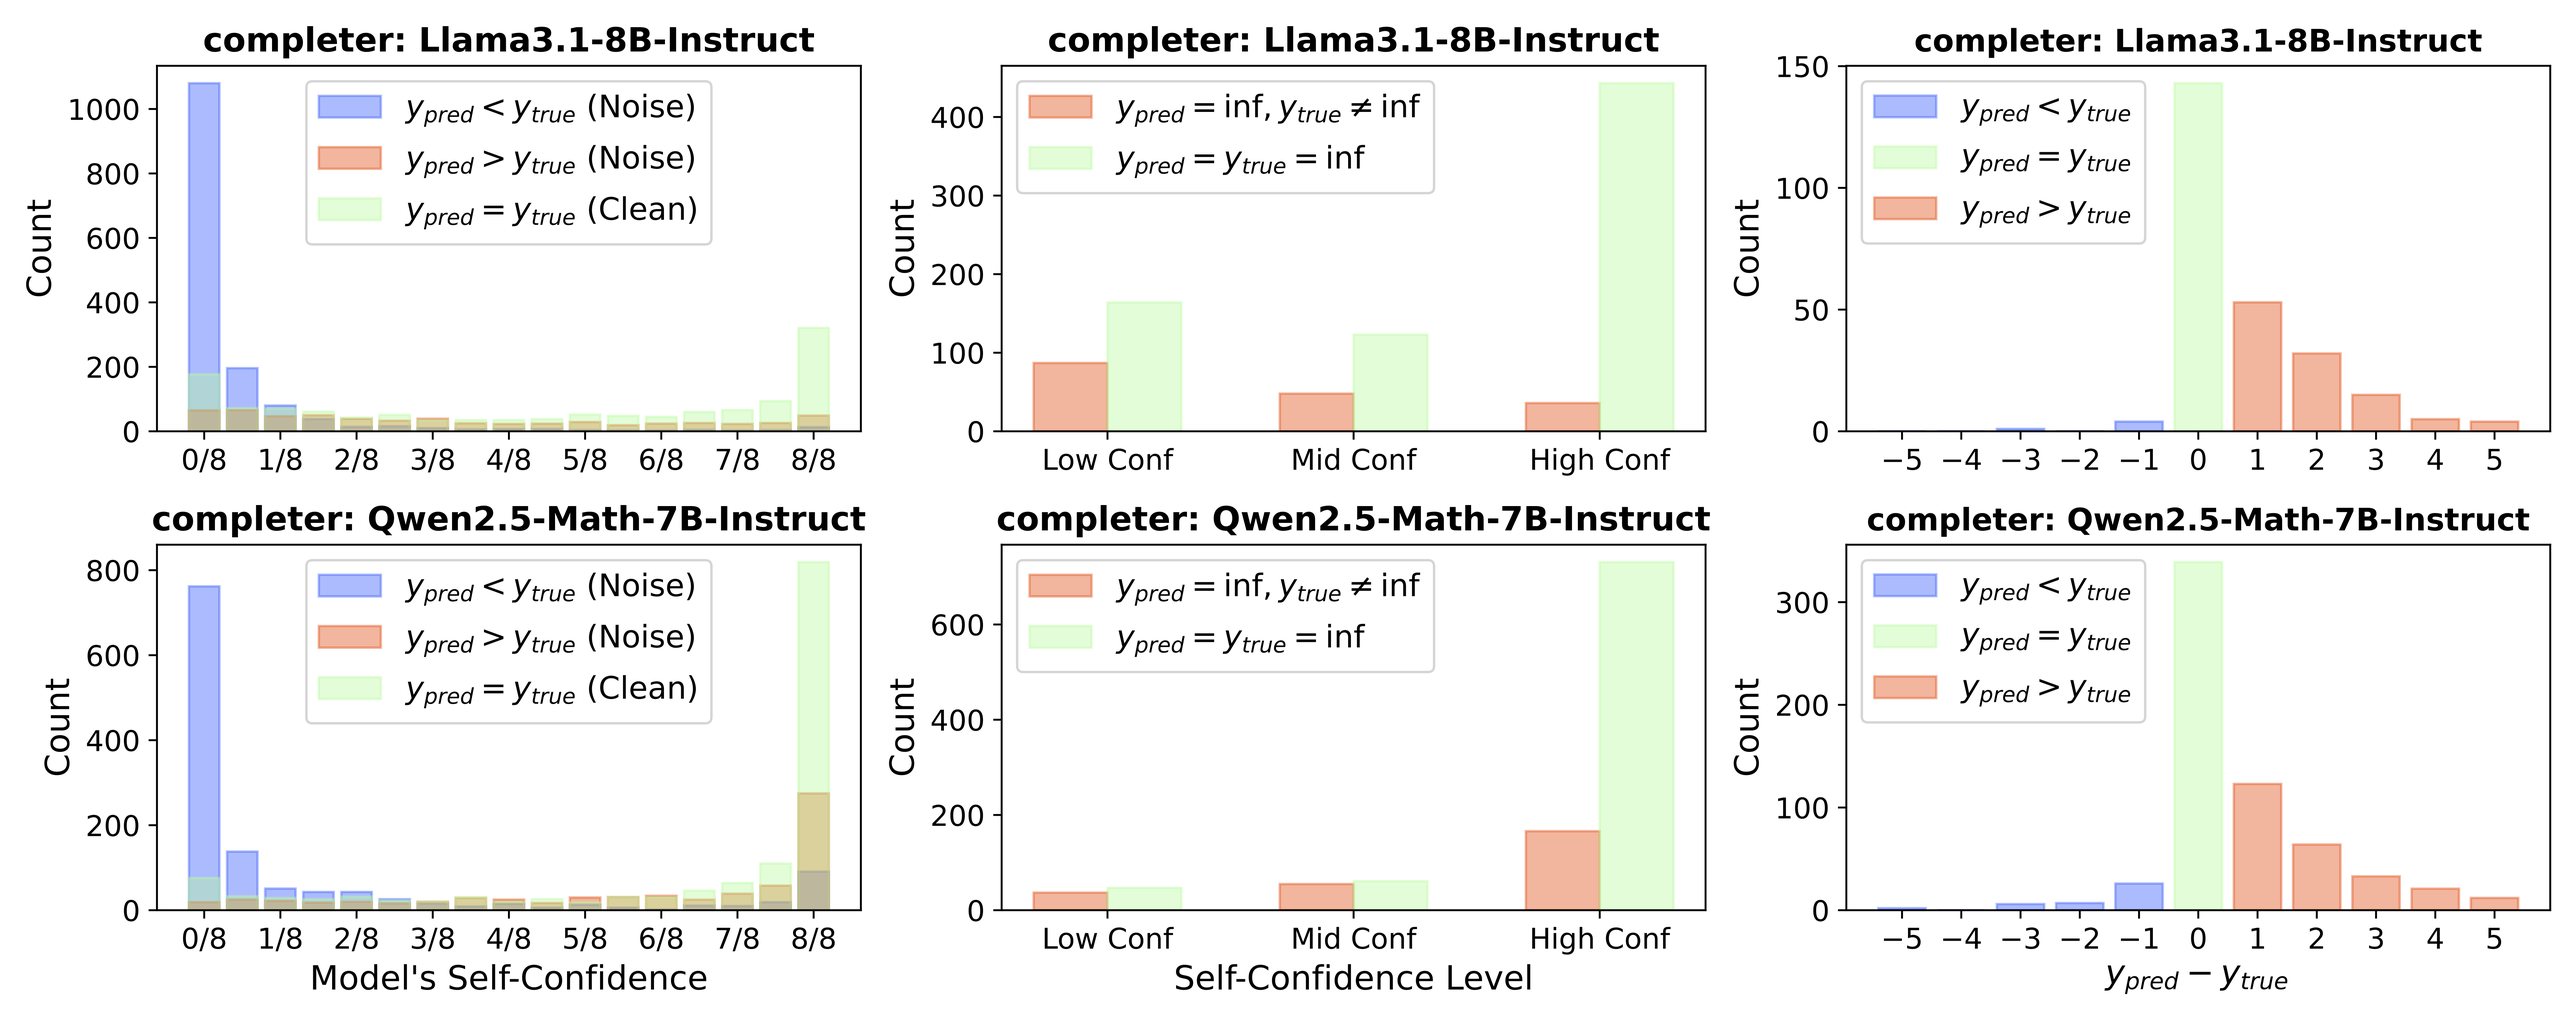
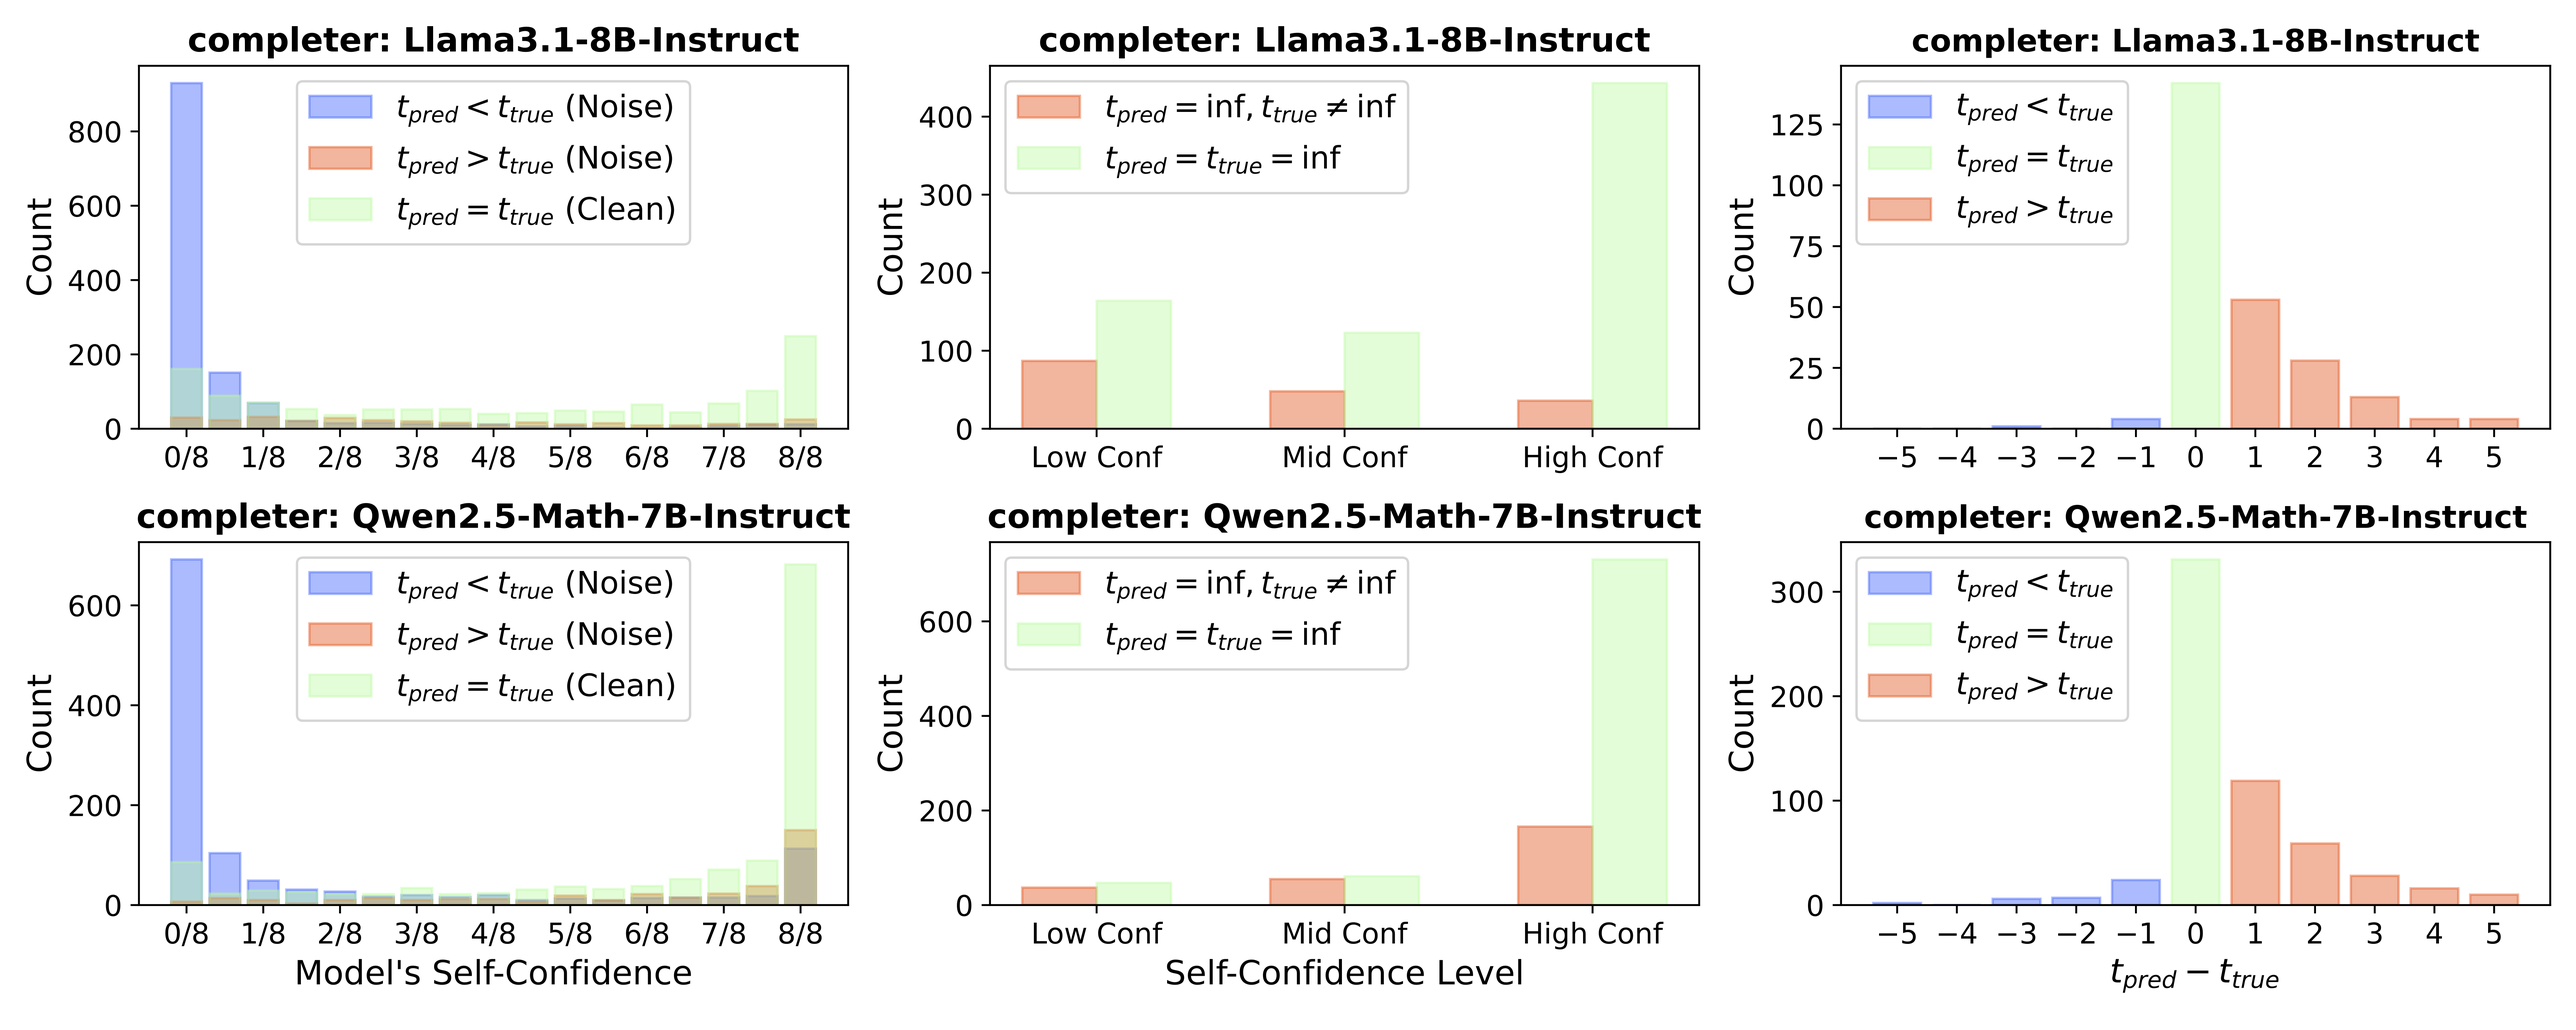
update

diff --git a/index.html b/index.html
@@ -43,6 +43,7 @@
   <script src="static/js/bulma-carousel.min.js"></script>
   <script src="static/js/bulma-slider.min.js"></script>
   <script src="static/js/index.js"></script>
+  <script src="https://cdn.jsdelivr.net/npm/mathjax@3/es5/tex-mml-chtml.js"></script>
 </head>
 <body>
 
@@ -77,39 +78,6 @@
             <span class="author-block"><b style="color:#f68946; font-weight:normal">&#x25B6 </b>Soochow University</span>
             <span class="author-block"><b style="color:#008AD7; font-weight:normal">&nbsp&nbsp&#x25B6 </b> Tencent</span>
           </div>
-
-          <!-- <div class="is-size-5 publication-authors">
-            <span class="author-block">Soochow University</span>
-          </div> -->
-
-          <!-- <div class="is-size-6 publication-authors">
-            <span class="author-block"><sup>*</sup>Equal Contribution</span>
-          </div> -->
-
-          
-        <!-- <div class="column has-text-centered">
-          <h3 class="title is-3 publication-title">Improved Baselines with Visual Instruction Fine-tuning</h3>
-          <div class="is-size-5 publication-authors">
-            <span class="author-block">
-              ,
-            </span>
-            <span class="author-block">
-              ,
-            </span>
-            <span class="author-block">
-              ,
-            </span>
-            <span class="author-block">
-              <a href="https://pages.cs.wisc.edu/~yongjaelee/" style="color:#f68946;font-weight:normal;">Yong Jae
-                Lee</a >
-            </span>
-          </div>
-
-          <div class="is-size-5 publication-authors">
-            <span class="author-block"><b style="color:#f68946; font-weight:normal">&#x25B6 </b> University of
-              Wisconsin-Madison</b></span>
-            <span class="author-block"><b style="color:#008AD7; font-weight:normal">&#x25B6 </b> Microsoft Research</span>
-          </div> -->
 
           <div class="column has-text-centered">
             <div class="publication-links">
@@ -157,41 +125,42 @@
   </div>
 </section>
 
-
-<!-- Teaser video-->
- 
 <section class="hero teaser">
   <div class="container is-max-desktop">
     <div class="hero-body">
       <h2 class="subtitle has-text-centered">
-         We propose <b>S</b>elf-Denoising Monte <b>C</b>arlo <b>An</b>notation (SCAN),<br>an efficient Process Reward Model (PRM) data synthesis and noise-tolerant learning framework.
+        We propose <b>S</b>elf-Denoising Monte <b>C</b>arlo <b>An</b>notation (SCAN),<br>an efficient Process Reward Model (PRM) data synthesis and noise-tolerant learning framework.
       </h2>
-    </div>
   </div>
 </section>
 
-<!-- End teaser video -->
-
-<!-- Paper abstract -->
-<!-- <section class="section hero is-light">
-  <div class="container is-max-desktop">
-    <div class="columns is-centered has-text-centered">
-      <div class="column is-four-fifths">
-        <h2 class="title is-3">Abstract</h2>
-        <div class="content has-text-justified">
-          <p>
-            We introduce ScaleQuest, a scalable and novel data synthesis method that utilizes "small-size" (e.g., 7B) open-source models to generate questions from scratch without the need for seed data with complex augmentation constraints.
-          </p>
+<section class="hero is-small is-light">
+  <div class="hero-body">
+    <div class="container is-max-desktop">
+      <div class="columns is-centered has-text-centered">
+        <div class="column is-six-fifths">
+          <h2 class="title is-3">Background</h2>
+        </div>
+      </div>
+      <div class="columns is-centered">
+        <div class="column is-full-width">
+          <div class="desc">
+            <li>
+            <b>Process Reward Model</b>: Process reward models (PRMs) offer fine-grained, step-level evaluations that facilitate deeper reasoning processes in large language models (LLMs), proving effective in complex tasks like mathematical reasoning. 
+            </li>
+            <li>
+            <b>Data Scaling Bottleneck</b>: The development of PRMs is constrained by the high cost and limited scalability of human annotations. Synthetic data generated via Monte Carlo (MC) estimation offers a scalable alternative, but its high noise ratio often leads to overfitting and hinders effective large-scale training.
+            </li>
+          </div>
         </div>
       </div>
     </div>
   </div>
-</section> -->
-<!-- End paper abstract -->
+</section>
 
 
 <!-- ### Preliminary Overview-->
-<section class="hero is-small is-light">
+<section class="hero is-small">
   <div class="hero-body">
     <div class="container is-max-desktop">
       <!-- Paper video. -->
@@ -206,6 +175,14 @@
             <img src="./static/images/preliminary.png">
           </div>
           <div class="desc">
+            <p><b>The above figure</b> illustrates the noise distribution of Monte Carlo Estimation, where \( t_{pred} \) denotes the annotated error location (label), and \( t_{true} \) denotes the ground-truth error location (label).</p>
+            <p><b>Here we list an important observations on noise distribution:</b></p>
+            <li>
+              <b>False Positive Noise:</b> For predicted positive samples (i.e., \( t_{pred} = \text{inf}\)), the noise positive ratio is significantly lower in high self-confidence samples (<b>left and middle columns</b>), making them more suitable for training.
+            </li>
+            <li>
+              <b>Inaccurate Negative Noise:</b> Annotator model can roughly identifies error locations but often overestimate them, i.e., \(t_{pred} > t_{true}\). The number of noisy samples decreases as the deviation increases (<b>right column</b>).
+            </li>
             <!-- <ol>
               <li>
                 <b>Question Fine-Tuning (QFT)</b>: To activate the model's question generation capability, we first perform Question Fine-Tuning (QFT), where we train the problem-solving model using a small set of problems. We train two question generators based on DeepSeekMath-7B-RL and Qwen2-Math-7B-Instruct, using 15K problems from the GSM8K and MATH training set.
@@ -229,7 +206,7 @@
 
 
 <!-- ### Method Overview-->
-<section class="hero is-small">
+<section class="hero is-small is-light">
   <div class="hero-body">
     <div class="container is-max-desktop">
       <!-- Paper video. -->
@@ -244,20 +221,29 @@
             <img src="./static/images/method.png">
           </div>
           <div class="desc">
-            <!-- <ol>
-              <li>
-                <b>Question Fine-Tuning (QFT)</b>: To activate the model's question generation capability, we first perform Question Fine-Tuning (QFT), where we train the problem-solving model using a small set of problems. We train two question generators based on DeepSeekMath-7B-RL and Qwen2-Math-7B-Instruct, using 15K problems from the GSM8K and MATH training set.
-              </li>
-              <li>
-                <b>Question Preference Optimization (QPO)</b>: We further optimize the two problem generators through preference tuning, focusing primarily on two aspects: problem solvability and difficulty.
-              </li>
-              <li>
-                <b>Question Filtering</b>: After the QFT and QPO phases, we obtained two question generators: DeepSeekMath-QGen and Qwen2-Math-QGen. However, there were still some minor issues in the generated questions, so we applied filtering methods, including language filtering, solvability filtering, and difficulty sampling.
-              </li>
-              <li>
-                <b>Response Generation & Reward Filtering</b>: We generate responses using Qwen2-Math-7B-Instruct and use the reward model score as a metric for evaluating response quality. The response with the highest reward score among the five candidates is then selected as the final response.
-              </li>
-            </ol> -->
+            <p><b>Building upon the insights</b>, we propose SCAN framework, consisting of two modules: (1) an efficient data synthesis framework to reduce substantial inference costs, and (2) robust training methods to mitigate the high noise ratio in synthetic data and enable robust learning with noisy labels.</p>
+            <li>
+              <b>Data Synthesis:</b> SCAN first estimate a confidence score of annotator model \(\pi\) on an given question \(q_i\):
+              $$
+              SC_{\pi_1}(q_i) = \frac{1}{N} \sum\limits_{j=1}^{N} \mathcal{J}(r_{i}^{(j)}, a_i),\quad \text{where } r_i \sim P_{\theta}(\cdot \mid q_i)
+              $$
+              where \(\mathcal{J}(r_{i}^{(j)}, a^i)\) evaluates the correctness of the generated response.
+              The positive samples in high self-confidence regions, contain minimal noise (<b>from the above discovery</b>). Therefore, we directly use these samples as positive training examples.
+            </li>
+            <li>
+              <b>Robust Learning:</b> The term \(SC_{\pi}(q)\) denotes the self-confidence score of the completer model \(\pi\) for question \(q\). We then train PRMs with the reweighted step label:
+              $$
+              \begin{aligned}
+                  \mathcal{L}_{\text{SCAN}}{(\theta)} &= -\mathbb{E}_{(x_{\leq t}, y_t) \sim D_{\text{final}}}[y_t\log(P_{\theta}(y_t|q, \mathbf{x}_{\leq t})) + (1 - y_t)\log(1 - P_{\theta}(y_t|q, \mathbf{x}_{\leq t}))] \\
+                  \hat{y}_{t} &= 
+                  \begin{cases}
+                  \min(c_t / SC_{\pi}(q), 1), & \text{if } t_{pred}^{e} - t \leq d \\
+                  \mathbb{I}(c_t > 0), & \text{Otherwise}  \\
+                  \end{cases}, \quad\text{where }c_t = P_{\pi}(y_t = \text{correct} | q, \mathbf{x}_{\leq t}), \\
+              \end{aligned}
+              $$
+              The completer model tends to overestimate the correctness of the current step due to its strong self-correction capability. As errors continue to accumulate, the model eventually makes mistakes, leading to \(t_{pred} > t_{true}\), with a high probability of similar errors occurring at nearby positions (<b>from the above discovery</b>). To enable more robust learning with these noisy labels, we propose a noise-tolerant labeling strategy that applies soft labels to steps preceding the error, within a tolerance distance \(d\).
+            </li>
           </div>
         </div>
       </div>
@@ -267,7 +253,7 @@
 
 
 <!-- ### Dataset-->
-<section class="hero is-small is-light">
+<section class="hero is-small">
   <div class="hero-body">
     <div class="container is-max-desktop">
       <!-- Paper video. -->
@@ -278,23 +264,17 @@
       </div>
       <div class="columns is-centered">
         <div class="column is-full-width">
-          <!-- <div class="desc">
-            With the efficient ScaleQuest, we automatically constructed a mathematical reasoning dataset consisting of 1 million problem-solution pairs, which are more effective than existing open-sourced datasets.
-          </div>
-          <div class="desc" style="margin: 5px;">
+          <div class="desc">
+            With SCAN, we construct two datasets, using lightweight models:
             <il>
               <li>
-                ScaleQuest-Math (1M): <a style="text-decoration: underline;" href="https://huggingface.co/datasets/dyyyyyyyy/ScaleQuest-Math">huggingface link</a>
+                SCAN-Base (101K samples generated by a 1.5B model): <a style="text-decoration: underline;" href="https://huggingface.co/datasets/dyyyyyyyy/SCAN-Base">huggingface link</a>
               </li>
               <li>
-                ScaleQuest-Math-LongCoT (150K): <a style="text-decoration: underline;" href="https://huggingface.co/datasets/dyyyyyyyy/ScaleQuest-Math-Qwen2.5-LongCoT">huggingface link</a>
-              </li>
-              <li>
-                ScaleQuest-Code (160K): <a style="text-decoration: underline;" href="https://huggingface.co/datasets/dyyyyyyyy/ScaleQuest-Code">huggingface link</a>
+                SCAN-Pro (197K samples generated by multiple models up to 7B): <a style="text-decoration: underline;" href="https://huggingface.co/datasets/dyyyyyyyy/SCAN-Pro">huggingface link</a>
               </li>
             </il>
-          </div> -->
-          
+          </div>
         </div>
       </div>
     </div>
@@ -303,7 +283,7 @@
 
 
 <!-- ### Performance of  ScaleQuest-->
-<section class="hero is-small">
+<section class="hero is-small is-light">
   <div class="hero-body">
     <div class="container is-max-desktop">
       <!-- Paper video. -->
@@ -313,50 +293,27 @@
         </div>
       </div>
         <div class="column is-full-width">
-          <!-- <div class="desc">
-            ScaleQuest can universally increase the performance of mainstream open-source models (i.e., Mistral, Llama3, DeepSeekMath, and Qwen2-Math) by achieving 29.2% to 46.4% gains on MATH.
-            Notably, simply fine-tuning the Qwen2-Math-7B-Base model with our dataset can even surpass Qwen2-Math-7B-Instruct, a strong and well-aligned model on closed-source data, and proprietary models such as GPT-4-Turbo and Claude-3.5 Sonnet.
-          </div> -->
-          <div style="margin-top:20px;"></div>
-          <div class="results1-image">
-            <img src="./static/images/results1.png">
-          </div>
-          
-          <div style="margin-top:20px;"></div>
-          <div class="results2-image">
-            <img src="./static/images/results2.png">
+          <div class="desc">
+            We evaluate the effectiveness of the Process Reward Model (PRM) from two key perspectives:
+            <li>
+              <b>Best-of-N (BoN) Evaluation:</b> In this evaluation, the PRM functions as a verifier to select the best response from multiple candidate answers generated by a policy model. 
+            </li>
+            <div style="margin-top:20px;"></div>
+            <div class="results1-image">
+              <img src="./static/images/results1.png">
+            </div>
+            <li>
+              <b>Step-wise Error Detection:</b> We use ProcessBench as the evaluation benchmark, which measures the PRM's capability to identify the first error location in a given response.
+            <div style="margin-top:20px;"></div>
+            <div class="results2-image">
+              <img src="./static/images/results2.png">
+            </div>
           </div>
         </div>
       </div>
     </div>
   </div>
 </section>
-
-
-<!-- ### Performance of  ScaleQuest-->
-<!-- <section class="hero is-small">
-  <div class="hero-body">
-    <div class="container is-max-desktop">
-      <div class="columns is-centered has-text-centered">
-        <div class="column is-six-fifths">
-          <h2 class="title is-3">Cost Analysis</h2>
-        </div>
-      </div>
-      <div class="columns is-centered">
-        <div class="column is-full-width">
-          <div class="desc">
-            The data synthesis process was conducted on a server with 8 A100-40G-PCIe GPUs. Generating 1 million data samples required only 522.9 GPU hours (approximately 2.7 days on an 8-GPU server), with an estimated cost of $680.8 for cloud server rental. This is only about 10% of the cost of generating the same data using GPT-4o. This demonstrates that our data generation method is significantly more cost-effective.
-          </div>
-          <div style="margin-top:20px;"></div>
-          <div class="results1-image">
-            <img src="./static/images/cost.png">
-          </div>
-        </div>
-      </div>
-    </div>
-  </div>
-</section> -->
-
 
 <!--BibTex citation -->
   <section class="section" id="BibTeX">
